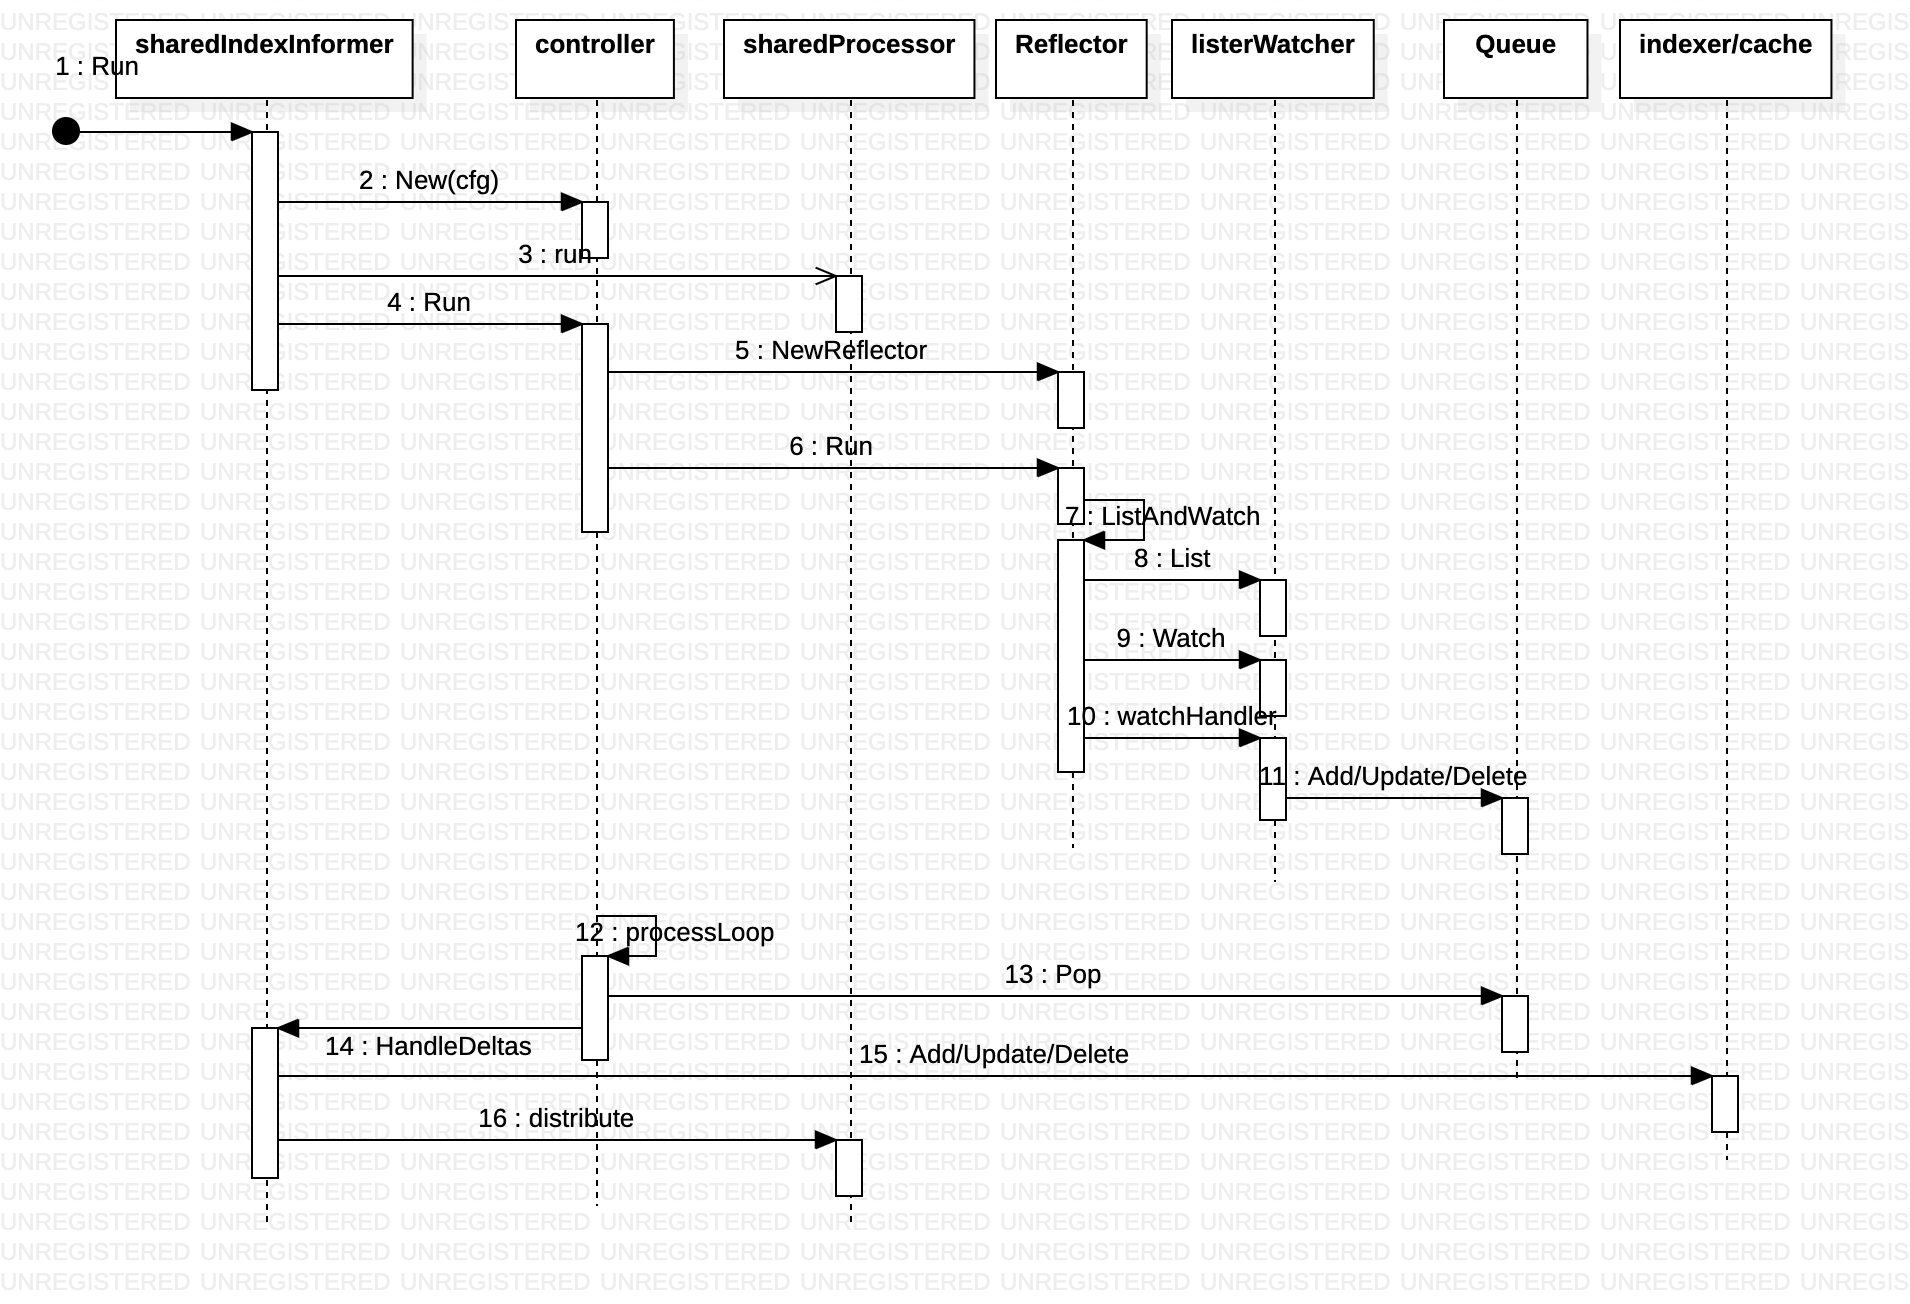
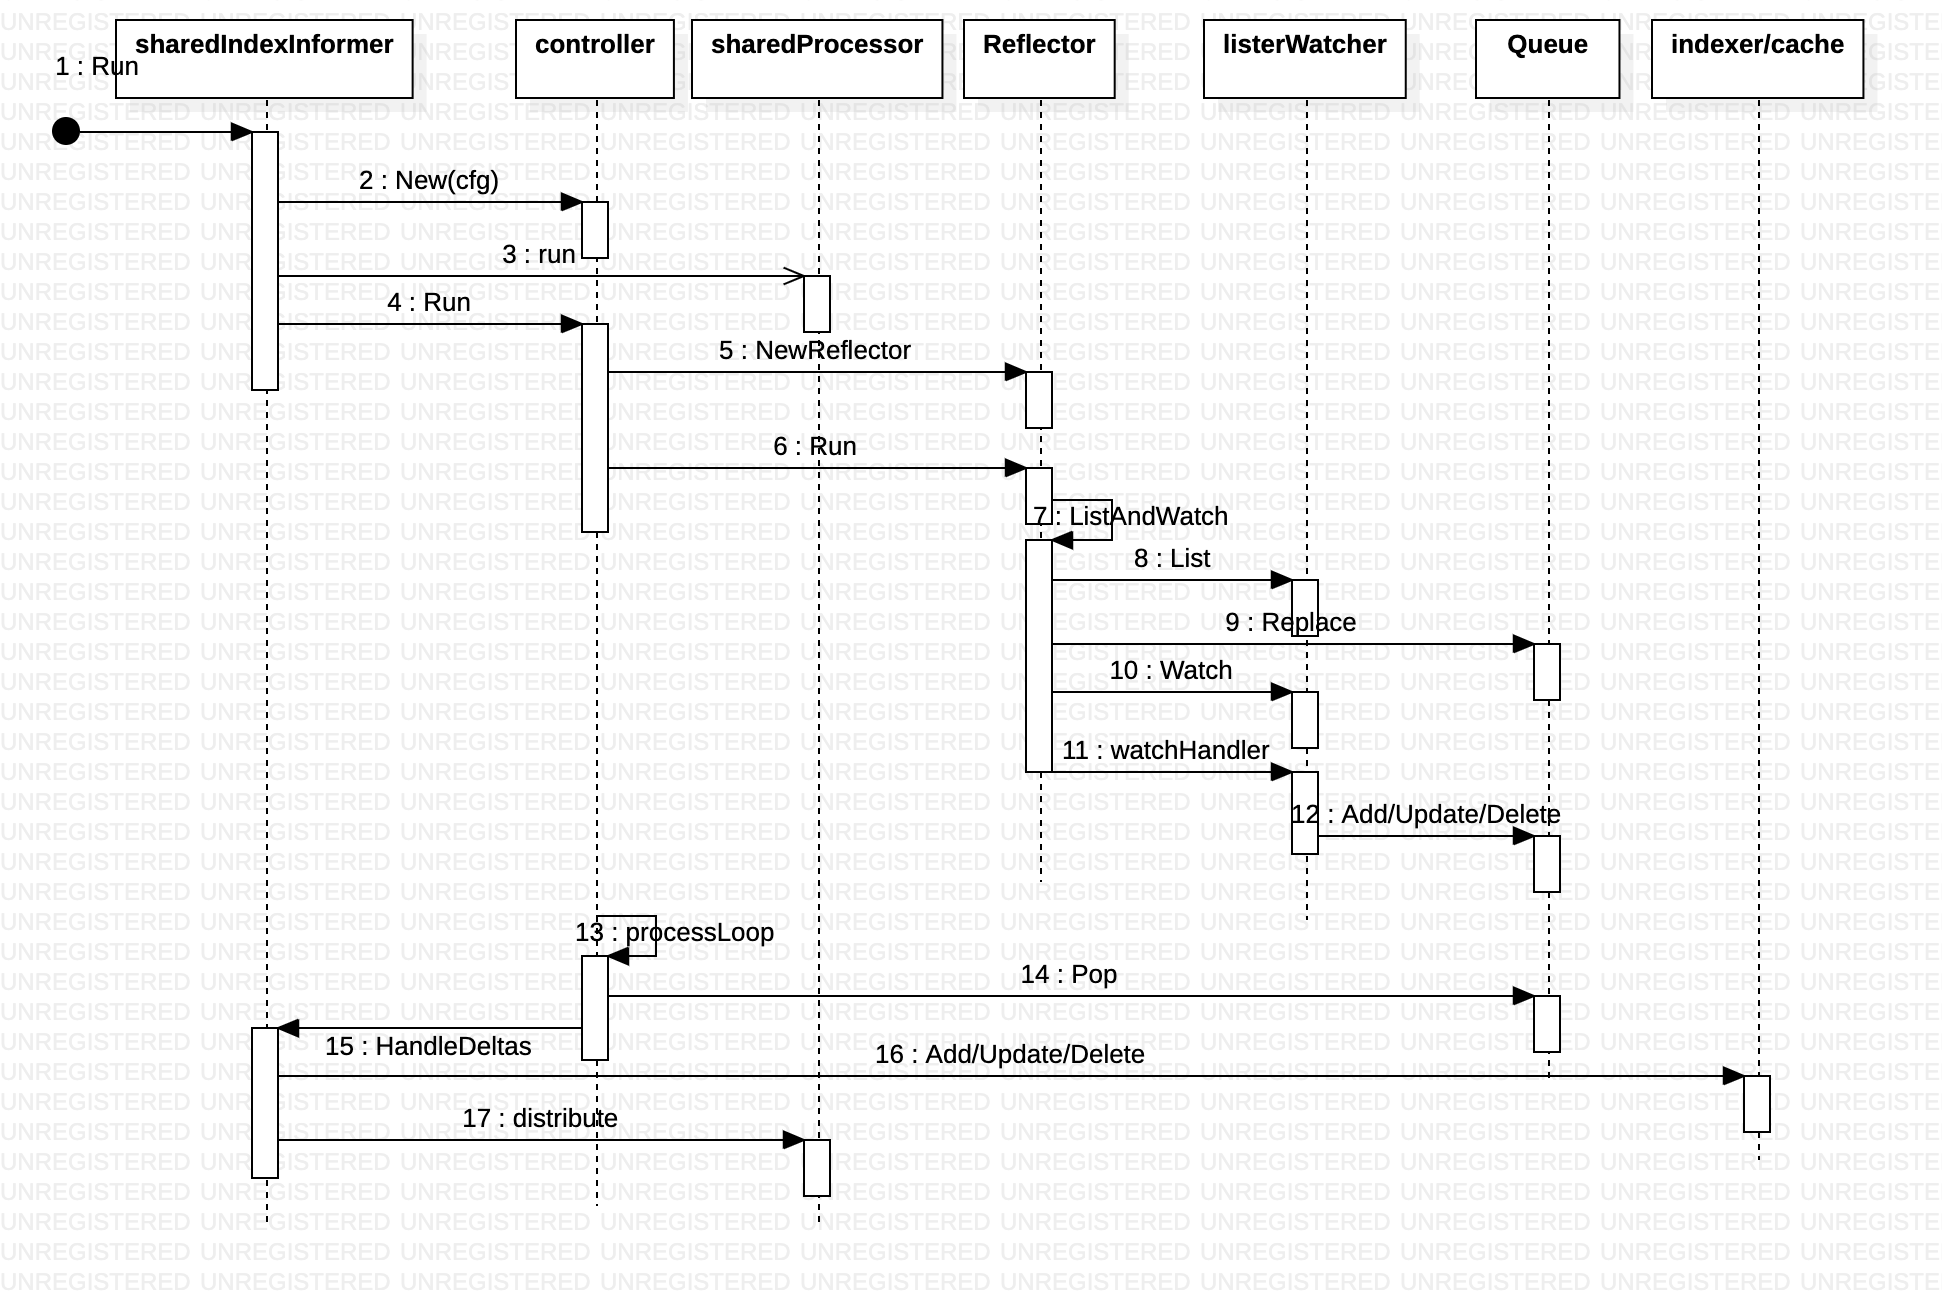
[fix]

diff --git a/_posts/Technology/Kubernetes/2020-07-20-client_go.md b/_posts/Technology/Kubernetes/2020-07-20-client_go.md
@@ -8,11 +8,11 @@ keywords:  kubernetes client-go
 
 ---
 
-## 简介（未完成）
+## 简介
 
 [Kubernetes的client-go库介绍](https://mp.weixin.qq.com/s/eYJ0rT6jmq3JvBqyHn2xgg)client-go是一个调用kubernetes集群资源对象API的客户端，即通过client-go实现对kubernetes集群中资源对象（包括deployment、service、ingress、replicaSet、pod、namespace、node等）的增删改查等操作。
 
-## 源码包
+## 资源对象访问
 
 ```
 k8s.io/client-go
@@ -30,16 +30,16 @@ k8s.io/api
         /types.go   // 定义了pod service 等struct
 ```
 
-## 资源对象访问
-
 1. Clientset是调用Kubernetes资源对象最常用的client，可以操作所有的资源对象。需要指定Group、Version，然后根据Resource获取。比如list pod`kubernetes.Clientset.CoreV1().Pods(c.namespace).List(metav1.ListOptions{})`
 
     ![](/public/upload/kubernetes/client_go_clientset.png)
 2. Dynamic client 是一种动态的 client，它能处理 kubernetes 所有的资源。不同于 clientset，dynamic client 返回的对象是一个 map[string]interface{}，如果一个 controller 中需要控制所有的 API，可以使用dynamic client，目前它在 garbage collector 和 namespace controller中被使用。
 
-## informer（未完成）
+## informer
 
-这点zk/etcd 等client 也提供类似能力，只是zk/etcd client 存储的是通用数据，没有封装资源对象。
+[Kubernetes: Controllers, Informers, Reflectors and Stores](http://borismattijssen.github.io/articles/kubernetes-informers-controllers-reflectors-stores)Kubernetes offers these powerful structures to get a local representation of the API server's resources.The Informer just a convenient wrapper to  automagically syncs the upstream data to a downstream store and even offers you some handy event hooks.
+
+[“高冷”的 Kubernetes Informer 一探究竟](https://mp.weixin.qq.com/s/3vlclIP-rSbWH4bplduexA)为了让 Client-go 更快地返回 List/Get 请求的结果、减少对 Kubenetes API 的直接调用，**Informer 被设计实现为一个依赖（并且只依赖） Kubernetes List/Watch API 、可监听事件并触发回调函数的二级缓存工具包**。PS：这点zk/etcd 等client 也提供类似能力，只是zk/etcd client 存储的是通用数据，没有封装资源对象。
 
 1. Informer设计为List/Watch的方式。Informer在初始化的时先通过List去从Kubernetes API中取出资源的全部object对象，并同时缓存，然后后面通过Watch的机制去监控资源，这样的话，通过Informer及其缓存，我们就可以直接和Informer交互而不是每次都和Kubernetes API交互。
 2. 提供了事件handler机制，只要给Informer添加ResourceEventHandler 实例的回调函数实例取实现OnAdd(obj interface{}) OnUpdate(oldObj, newObj interface{}) 和 OnDelete(obj interface{})这三个方法，就可以处理好资源的创建、更新和删除操作
@@ -55,14 +55,16 @@ k8s.io/client-go
             /interface.go
         /factory.go // 定义sharedInformerFactory struct
     /tools
-        /cache
-
+        /cache      // informer 机制的的重点在cache 包里
+            /shared_informer.go // 定义了 sharedIndexInformer struct
+            /controller.go
+            /reflector.go
+            /delta_fifo.go
 ```
-client-go的重点在cache 包里
 
+实际使用中 每一个资源对象（比如Pod、Deployment）都对应一个Informer，底层都用到了SharedIndexInformer
 
-[“高冷”的 Kubernetes Informer 一探究竟](https://mp.weixin.qq.com/s/3vlclIP-rSbWH4bplduexA)为了让 Client-go 更快地返回 List/Get 请求的结果、减少对 Kubenetes API 的直接调用，Informer 被设计实现为一个依赖（并且只依赖） Kubernetes List/Watch API 、可监听事件并触发回调函数的二级缓存工具包。
-
+### 整体设计
 
 Informer 中主要包含 Controller、Reflector、DeltaFIFO、LocalStore、Lister 和 Processor 六个组件，
 1. Controller 并不是 Kubernetes Controller，这两个 Controller 并没有任何联系；
@@ -71,10 +73,92 @@ Informer 中主要包含 Controller、Reflector、DeltaFIFO、LocalStore、Liste
 4. Lister 主要是被调用 List/Get 方法；
 5. Processor 中记录了所有的回调函数实例(即 ResourceEventHandler 实例)，并负责触发这些函数。
 
+![](/public/upload/kubernetes/client_go_informer_object.png)
 
-![](/public/upload/kubernetes/client_go_informer_sequence.png)
-
-从中可以看到 informer 机制主要两个流程
+informer 机制主要两个流程
 
 1. Reflector 通过ListWatcher 同步apiserver 数据（只启动时搞一次），并watch apiserver ，将event 加入到 Queue 中
 2. controller 从 Queue中获取event，更新存储，并触发Processor 业务层注册的 ResourceEventHandler
+
+![](/public/upload/kubernetes/client_go_informer_sequence.png)
+
+![](/public/upload/kubernetes/client_go_informer_process.png)
+
+
+### 和clientset对接
+
+sharedIndexInformer 中有个属性 listerWatcher，以Pod 为例，其创建如下，从中可以看到informer 通过ListWatcher 接口与 clientset 建立了关联
+
+```go
+func NewPodInformer(client kubernetes.Interface, namespace string, resyncPeriod time.Duration, indexers cache.Indexers) cache.SharedIndexInformer {
+	return NewFilteredPodInformer(client, namespace, resyncPeriod, indexers, nil)
+}
+func NewFilteredPodInformer(client kubernetes.Interface, namespace string, resyncPeriod time.Duration, indexers cache.Indexers, ...) cache.SharedIndexInformer {
+	return cache.NewSharedIndexInformer(
+		&cache.ListWatch{
+			ListFunc: func(options metav1.ListOptions) (runtime.Object, error) {
+                ...
+				return client.CoreV1().Pods(namespace).List(options)
+			},
+			WatchFunc: func(options metav1.ListOptions) (watch.Interface, error) {
+				...
+				return client.CoreV1().Pods(namespace).Watch(options)
+			},
+		},
+		&corev1.Pod{},
+		resyncPeriod,
+		indexers,
+	)
+}
+```
+
+### 两级缓存
+
+二级缓存属于Informer的底层缓存机制，这两级缓存分别是DeltaFIFO和LocalStore。DeltaFIFO用来存储Watch API返回的各种事件 ，LocalStore只会被Lister的List/Get方法访问 。
+
+![](/public/upload/kubernetes/informer_cache_fifo.png)
+
+watch 到的event(包含资源对象数据)，先看本地cache 有没有，有就是更新，没有就是新增。
+
+```go
+func (s *sharedIndexInformer) HandleDeltas(obj interface{}) error {
+	// from oldest to newest
+	for _, d := range obj.(Deltas) {
+		switch d.Type {
+		case Sync, Added, Updated:
+			isSync := d.Type == Sync
+			if old, exists, err := s.indexer.Get(d.Object); err == nil && exists {
+				if err := s.indexer.Update(d.Object); err != nil {...}
+				s.processor.distribute(updateNotification{oldObj: old, newObj: d.Object}, isSync)
+			} else {
+				if err := s.indexer.Add(d.Object); err != nil {...}
+				s.processor.distribute(addNotification{newObj: d.Object}, isSync)
+			}
+		case Deleted:
+			if err := s.indexer.Delete(d.Object); err != nil {...}
+			s.processor.distribute(deleteNotification{oldObj: d.Object}, false)
+		}
+	}
+	return nil
+}
+```
+
+虽然Informer和Kubernetes之间没有resync机制，但Informer内部的这两级缓存之间存在resync机制。
+
+### watch 是如何实现的？
+
+[理解 K8S 的设计精髓之 List-Watch机制和Informer模块](https://zhuanlan.zhihu.com/p/59660536)HTTP 分块传输编码允许服务器为动态生成的内容维持 HTTP 持久链接。通常，持久链接需要服务器在开始发送消息体前发送Content-Length消息头字段，但是对于动态生成的内容来说，在内容创建完之前是不可知的。使用分块传输编码，数据分解成一系列数据块，并以一个或多个块发送，这样服务器可以发送数据而不需要预先知道发送内容的总大小。
+
+当客户端调用watch API时，apiserver 在response的HTTP Header中设置Transfer-Encoding的值为chunked，表示采用分块传输编码，客户端收到该信息后，便和服务端保持该链接，并等待下一个数据块，即资源的事件信息。例如：
+
+```sh
+$ curl -i http://{kube-api-server-ip}:8080/api/v1/watch/pods?watch=yes
+HTTP/1.1 200 OK
+Content-Type: application/json
+Transfer-Encoding: chunked
+Date: Thu, 02 Jan 2019 20:22:59 GMT
+Transfer-Encoding: chunked
+{"type":"ADDED", "object":{"kind":"Pod","apiVersion":"v1",...}}
+{"type":"ADDED", "object":{"kind":"Pod","apiVersion":"v1",...}}
+{"type":"MODIFIED", "object":{"kind":"Pod","apiVersion":"v1",...}}
+```

diff --git a/_posts/Technology/Kubernetes/2019-03-07-kubernetes_controller.md b/_posts/Technology/Kubernetes/2019-03-07-kubernetes_controller.md
@@ -43,11 +43,13 @@ controller是一系列控制器的集合，不单指RC。
 
 这些控制器之所以被统一放在 pkg/controller 目录下，就是因为它们都遵循 Kubernetes 项目中的一个通用编排模式，即：控制循环（control loop）。  [Writing Controllers](https://github.com/kubernetes/community/blob/8decfe4/contributors/devel/controllers.md)
 
-    for {
-        desired := getDesiredState()
-        current := getCurrentState()
-        makeChanges(desired, current)
-    }
+```go
+for {
+    desired := getDesiredState()
+    current := getCurrentState()
+    makeChanges(desired, current)
+}
+```
 
 实际状态往往来自于 Kubernetes 集群本身。 比如，**kubelet 通过心跳汇报的容器状态和节点状态**，或者监控系统中保存的应用监控数据，或者控制器主动收集的它自己感兴趣的信息。而期望状态，一般来自于用户提交的 YAML 文件。 比如，Deployment 对象中 Replicas 字段的值，这些信息往往都保存在 Etcd 中。
 
@@ -121,14 +123,7 @@ controller 与上下游的边界/接口如下图
 
 ### 数据结构
 
-Controller Mananger 的主要逻辑便是 先初始化 资源（重点就是Informer） 并启动Controller。可以将Controller 和 Informer 视为两个组件，也可以认为只有Controller 一个，比如[kubectl 创建 Pod 背后到底发生了什么？](https://mp.weixin.qq.com/s/ctdvbasKE-vpLRxDJjwVMw)将 Deployment 记录存储到 etcd 并初始化后，就可以通过 kube-apiserver 使其可见，DeploymentController工作就是负责监听 Deployment 记录的更改——控制器通过 Informer 注册cud事件的回调函数。
-
-[Kubernetes: Controllers, Informers, Reflectors and Stores](http://borismattijssen.github.io/articles/kubernetes-informers-controllers-reflectors-stores)Kubernetes offers these powerful structures to get a local representation of the API server's resources.
-
-![](/public/upload/kubernetes/controller_object.png)
-
-The Informer just a convenient wrapper to  automagically syncs the upstream data to a downstream store and even offers you some handy event hooks.
-
+Controller Mananger 的主要逻辑便是 先初始化 资源（重点就是Informer） 并启动Controller。[kubectl 创建 Pod 背后到底发生了什么？](https://mp.weixin.qq.com/s/ctdvbasKE-vpLRxDJjwVMw)将 Deployment 记录存储到 etcd 并初始化后，就可以通过 kube-apiserver 使其可见，DeploymentController工作就是负责监听 Deployment 记录的更改——控制器通过 Informer 注册cud事件的回调函数。
 
 ### 外围——循环及数据获取
 
